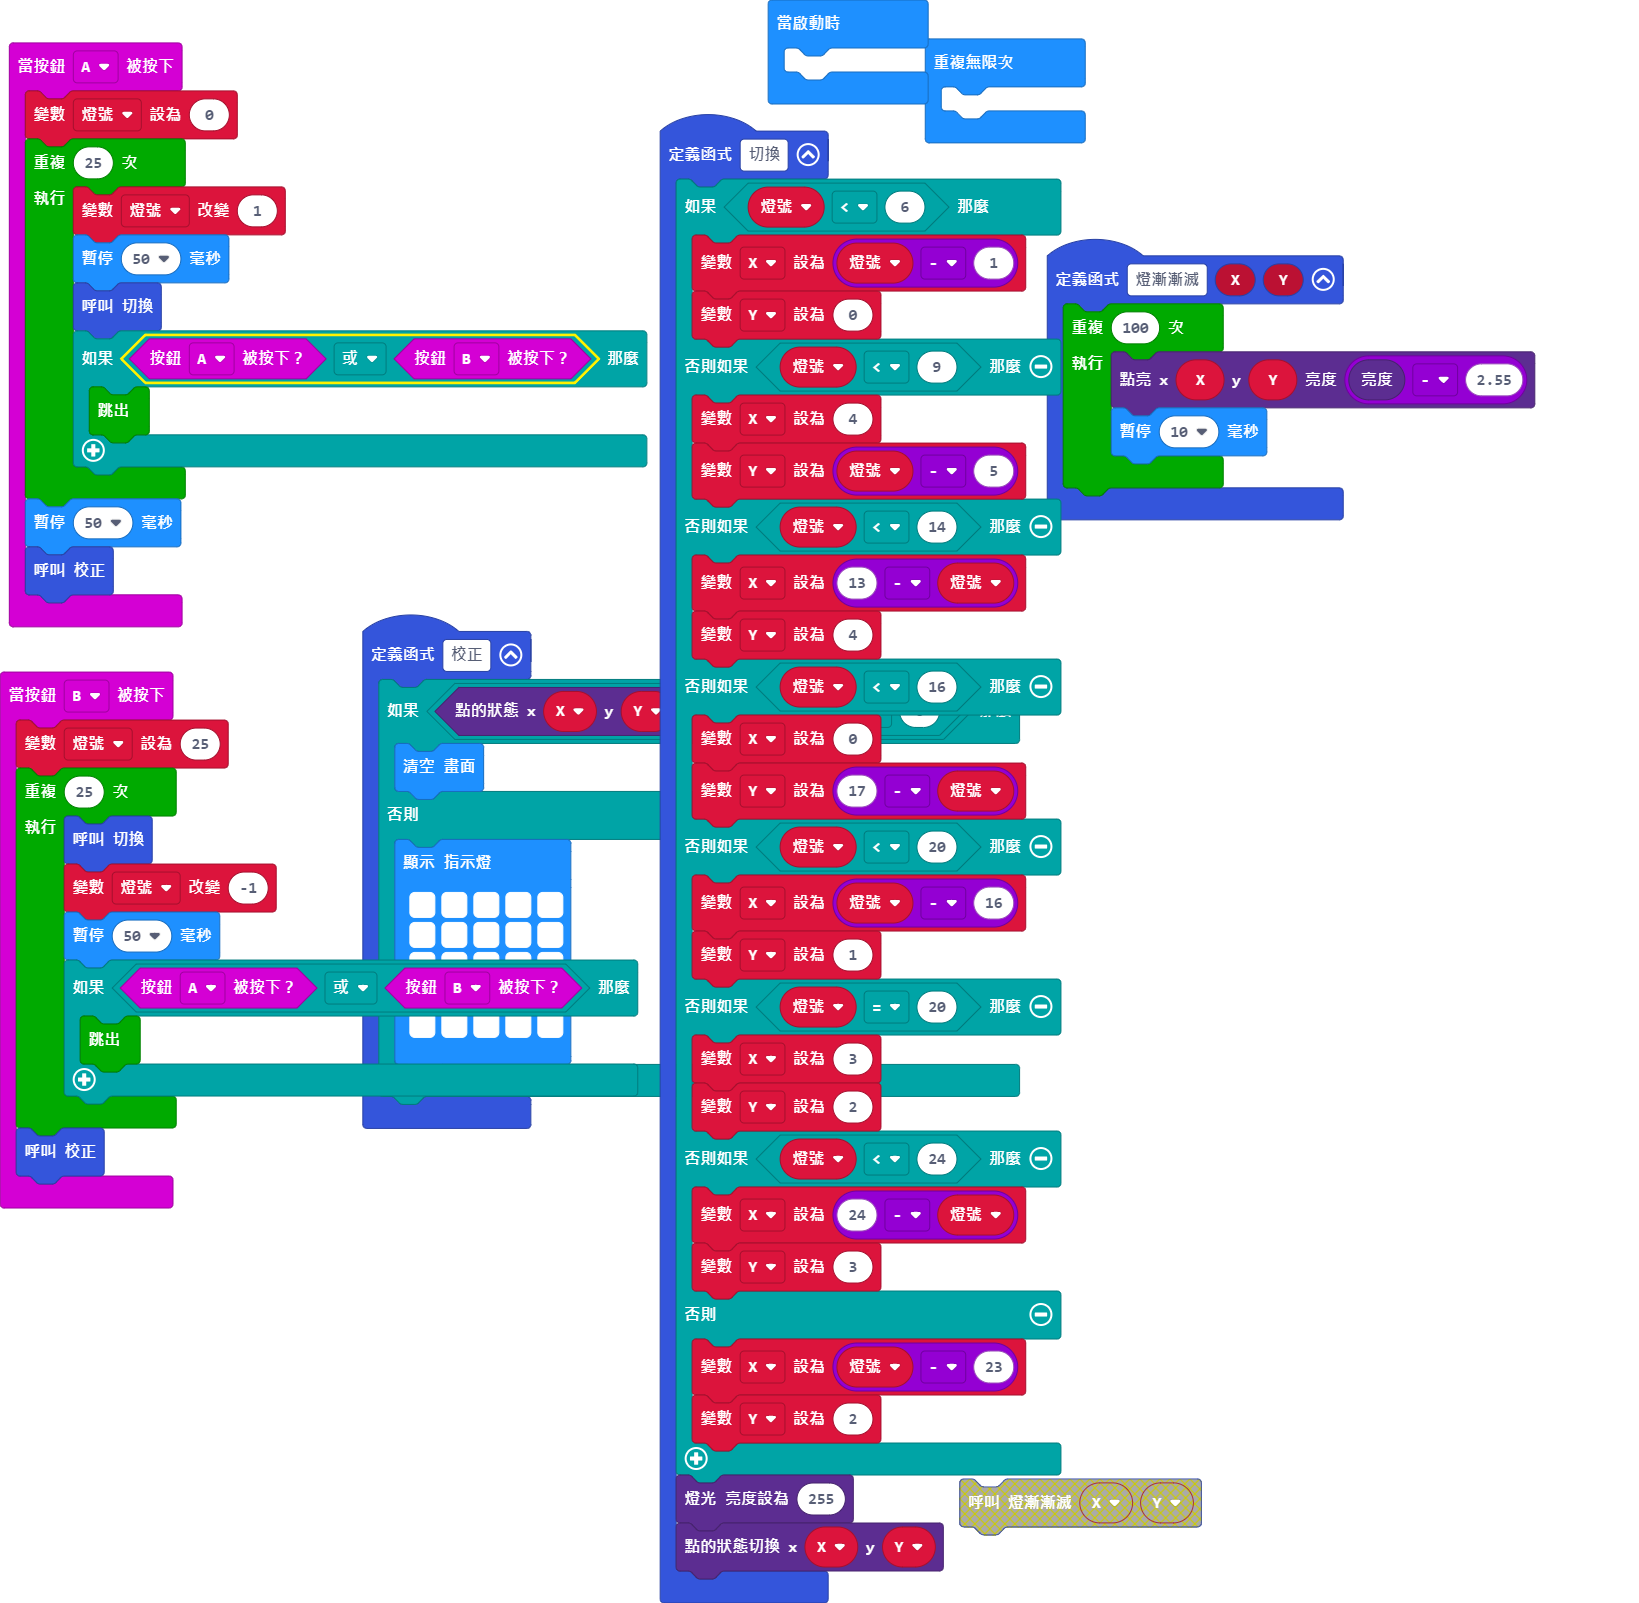
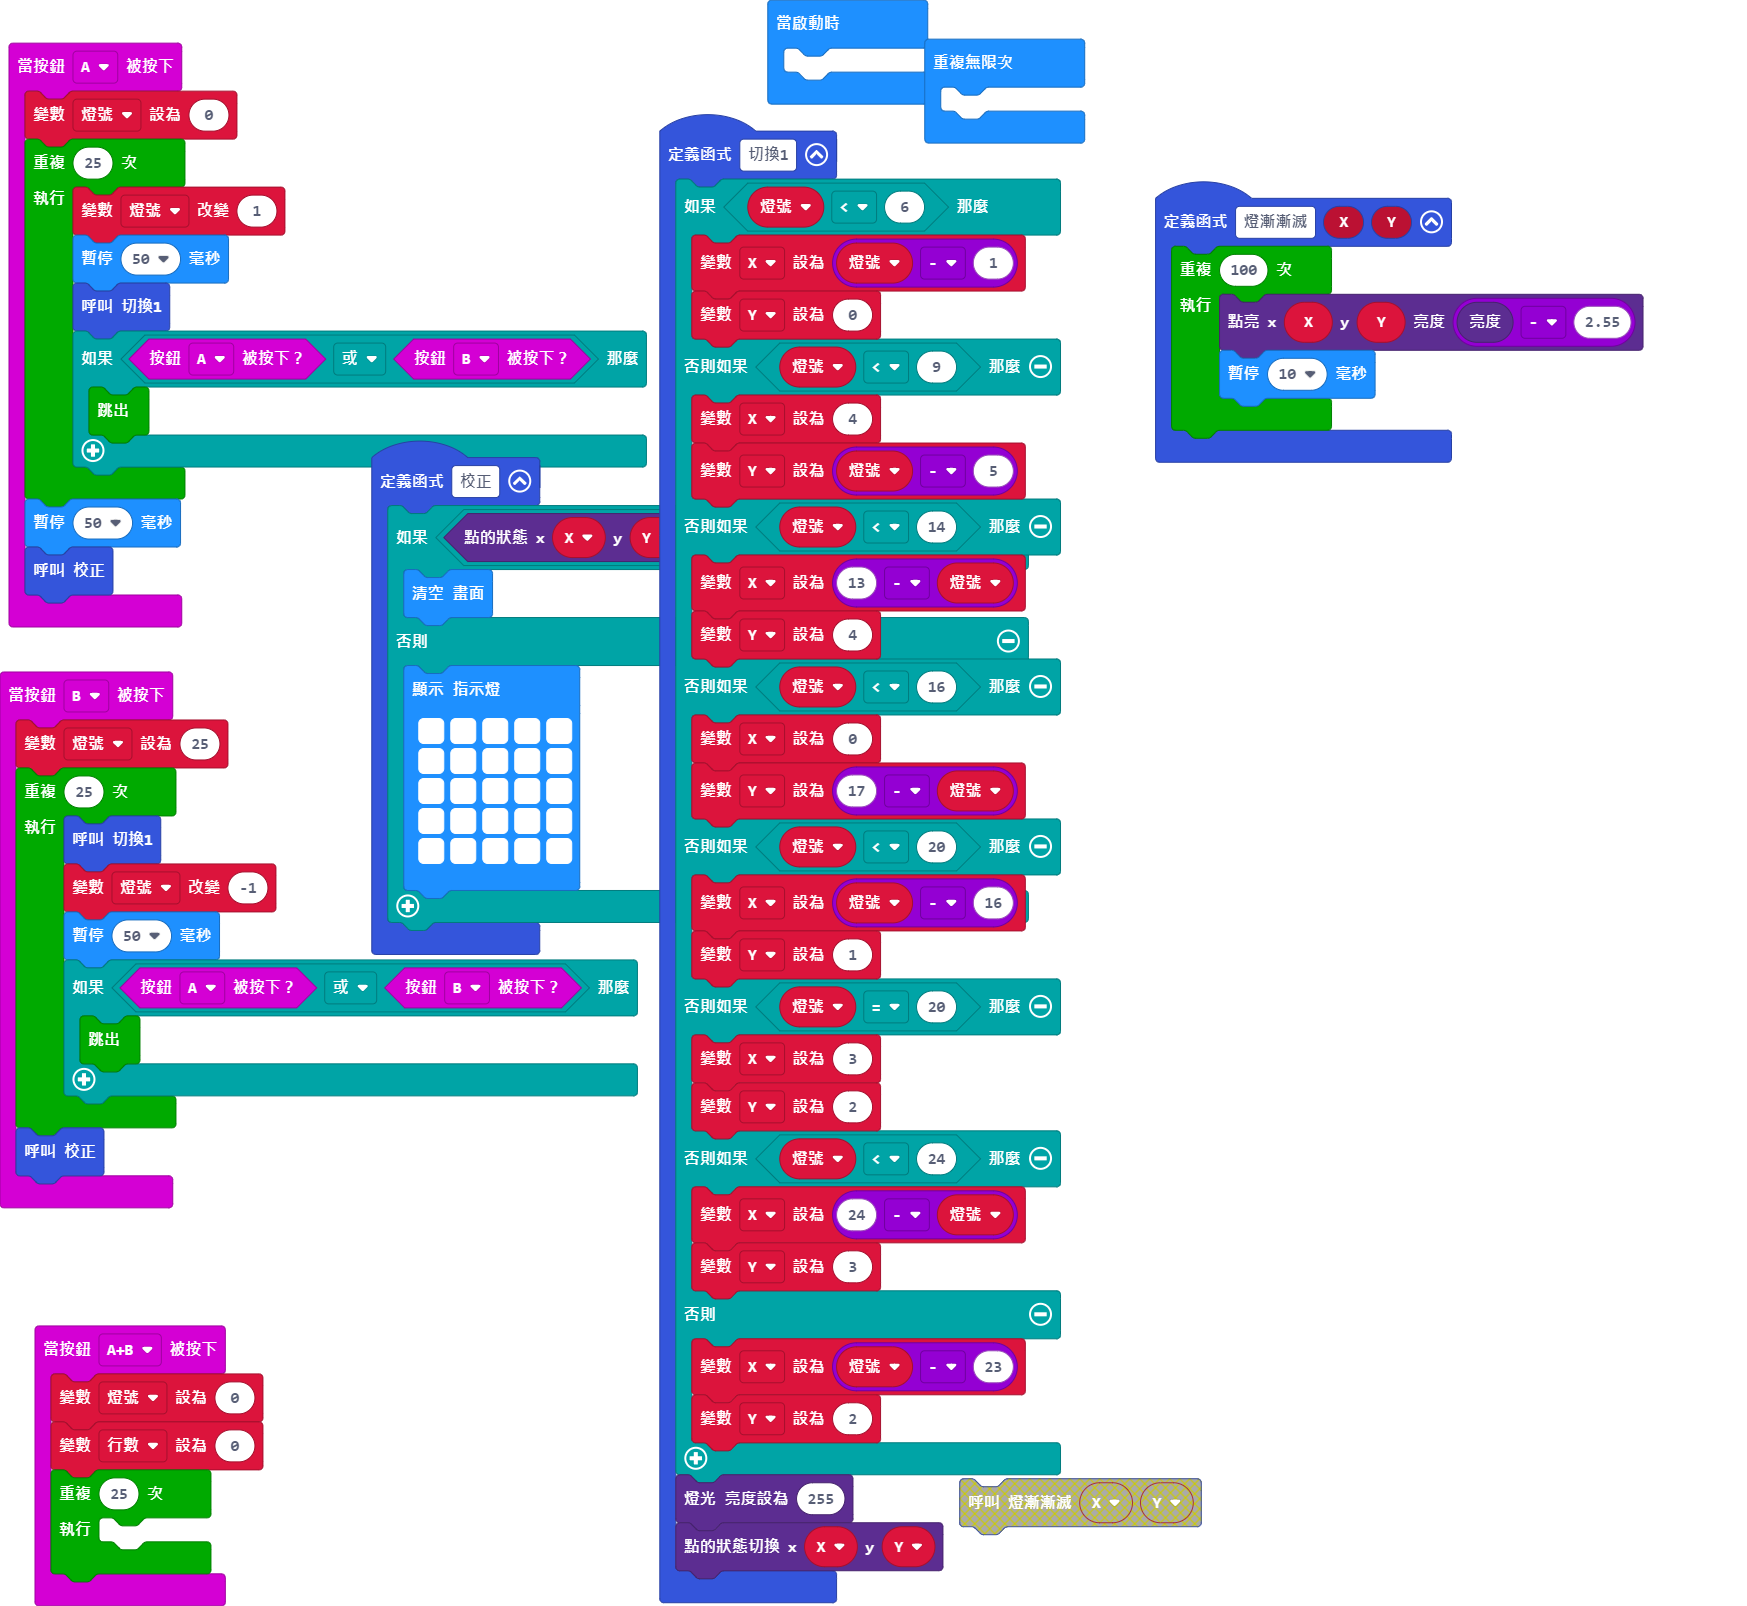
開始製作斜線

Changed region(s): [[0.0, 0.0, 0.9646, 1.0], [0.0, 0.811, 0.1556, 1.0]]

diff --git a/main.ts b/main.ts
@@ -1,20 +1,8 @@
 let 燈號 = 0
 let X = 0
 let Y = 0
-input.onButtonPressed(Button.A, function () {
-    燈號 = 0
-    for (let index = 0; index < 25; index++) {
-        燈號 += 1
-        basic.pause(50)
-        切換()
-        if (input.buttonIsPressed(Button.A) || input.buttonIsPressed(Button.B)) {
-            break;
-        }
-    }
-    basic.pause(50)
-    校正()
-})
-function 切換 () {
+let 行數 = 0
+function 切換1 () {
     if (燈號 < 6) {
         X = 燈號 - 1
         Y = 0
@@ -43,10 +31,30 @@ function 切換 () {
     led.setBrightness(255)
     led.toggle(X, Y)
 }
+input.onButtonPressed(Button.A, function () {
+    燈號 = 0
+    for (let index = 0; index < 25; index++) {
+        燈號 += 1
+        basic.pause(50)
+        切換1()
+        if (input.buttonIsPressed(Button.A) || input.buttonIsPressed(Button.B)) {
+            break;
+        }
+    }
+    basic.pause(50)
+    校正()
+})
+input.onButtonPressed(Button.AB, function () {
+    燈號 = 0
+    行數 = 0
+    for (let index = 0; index < 25; index++) {
+    	
+    }
+})
 input.onButtonPressed(Button.B, function () {
     燈號 = 25
     for (let index = 0; index < 25; index++) {
-        切換()
+        切換1()
         燈號 += -1
         basic.pause(50)
         if (input.buttonIsPressed(Button.A) || input.buttonIsPressed(Button.B)) {
